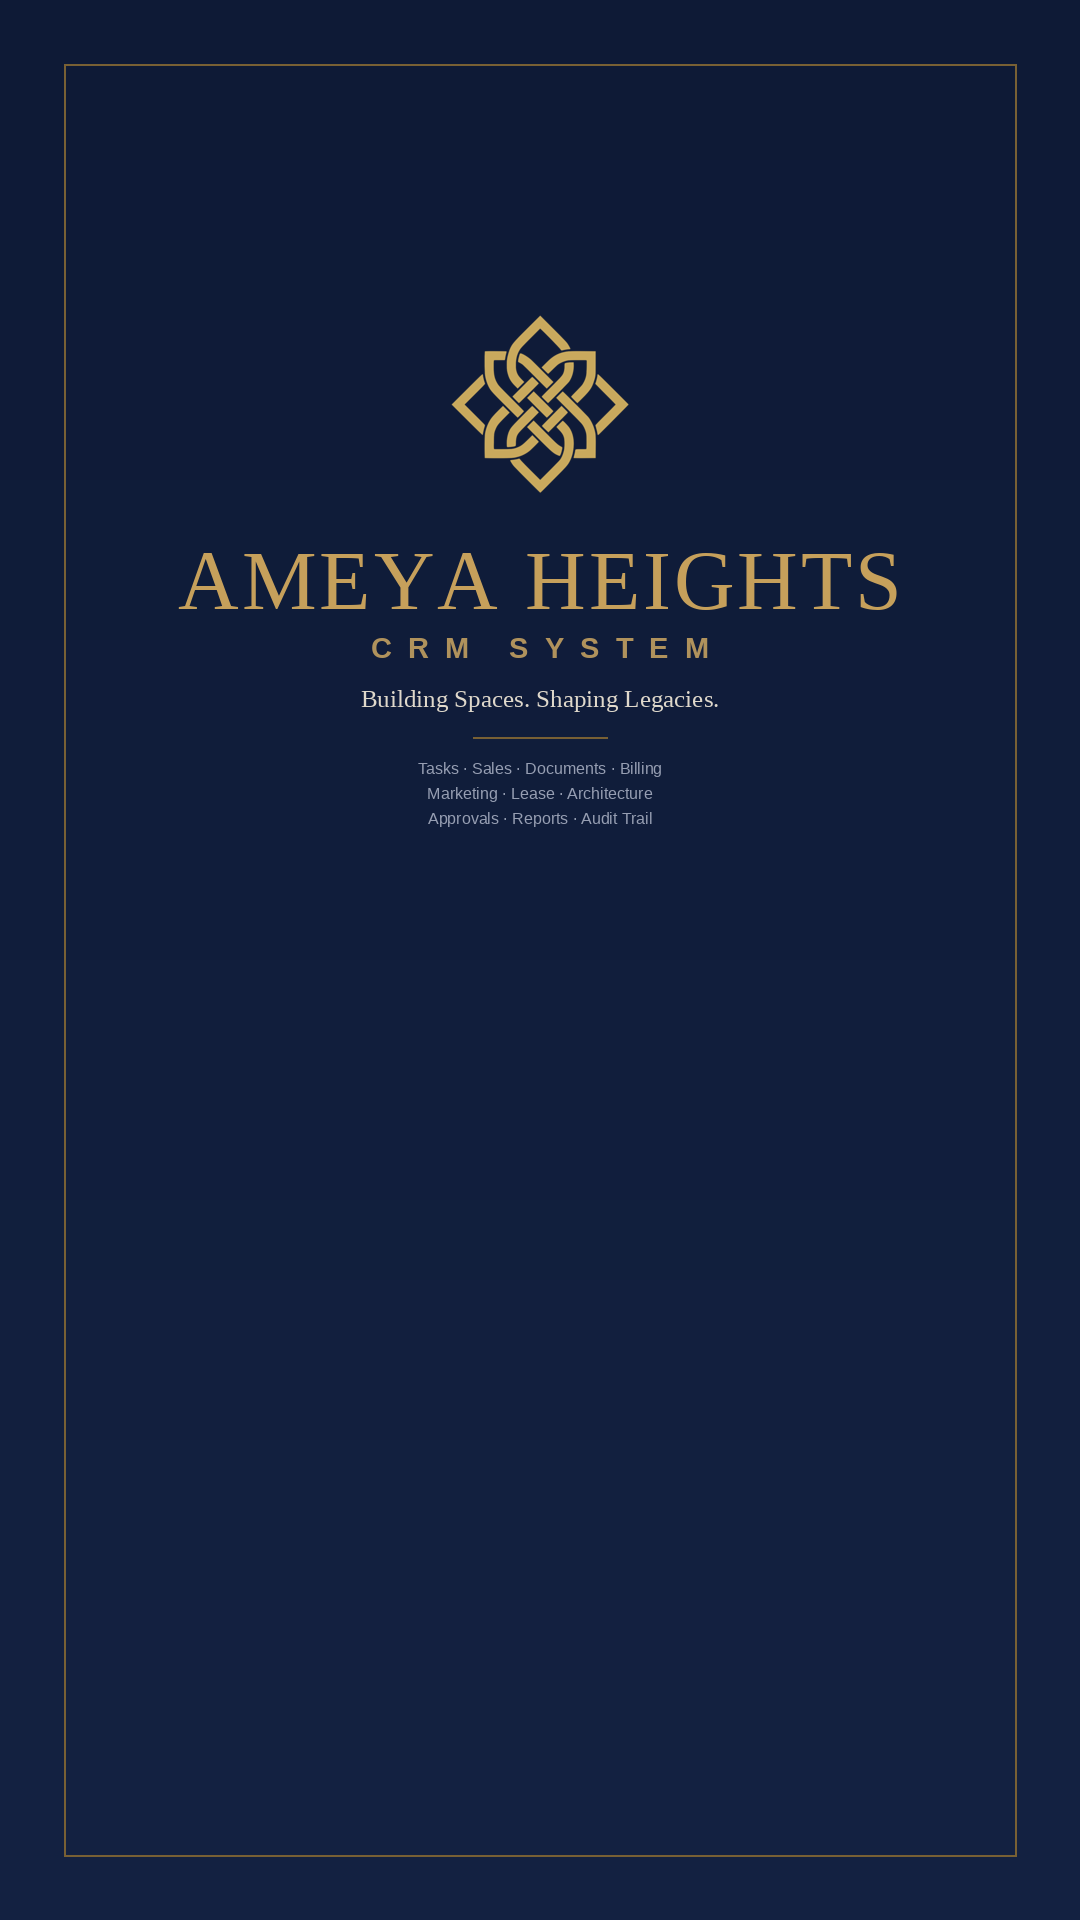
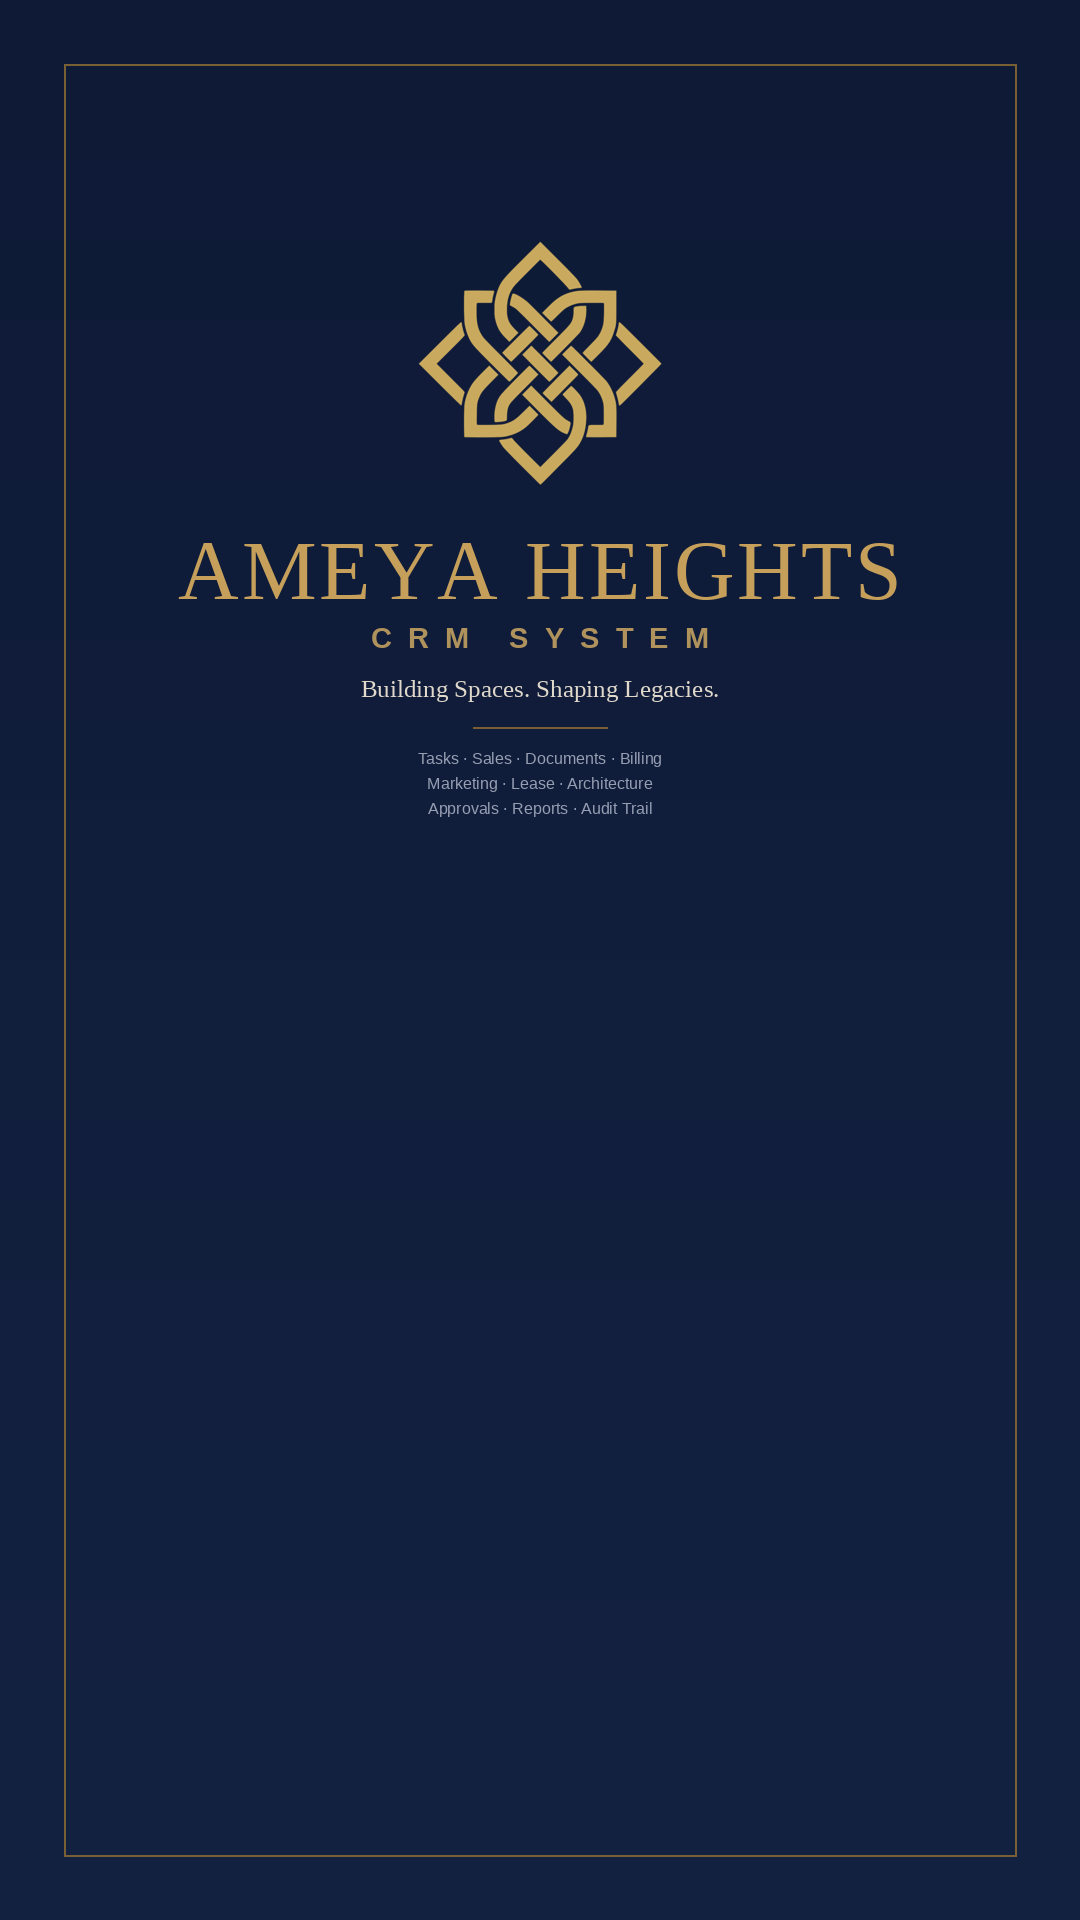
3.12

Changed region(s): [[0.1528, 0.2812, 0.825, 0.4375], [0.3972, 0.125, 0.6111, 0.25]]

diff --git a/public/sw.js b/public/sw.js
@@ -1,5 +1,5 @@
 /* Ameya Heights CRM — service worker (offline shell + push). */
-const VERSION = 'ameya-crm-v1';
+const VERSION = 'ameya-crm-v311';
 const CORE = [
   '/', '/offline.html', '/manifest.webmanifest',
   '/icons/icon-192.png', '/icons/icon-512.png', '/brand/mark-gold-dark.svg',

diff --git a/src/app/(auth)/layout.tsx b/src/app/(auth)/layout.tsx
@@ -8,7 +8,7 @@ export default function AuthLayout({ children }: { children: React.ReactNode }) 
       <div className="relative hidden overflow-hidden lg:block" style={{ backgroundColor: '#0E1A36' }}>
         <div className="brass-gradient absolute inset-0 opacity-[0.06]" />
         <div className="relative flex h-full flex-col items-center justify-center px-12 text-center">
-          <Image src={brand.assets.markGoldLight} alt="Ameya Heights" width={420} height={420} priority className="h-auto w-2/5 max-w-[380px]" />
+          <Image src={brand.assets.markGoldLight} alt="Ameya Heights" width={420} height={420} priority className="h-auto w-1/2 max-w-[480px]" />
           <p className="mt-8 text-xs font-semibold uppercase tracking-[0.32em] text-brass-light">CRM Platform</p>
           <h1 className="mt-3 font-display text-6xl font-semibold xl:text-7xl" style={{ color: '#C2A05B' }}>
             {brand.company.displayName}